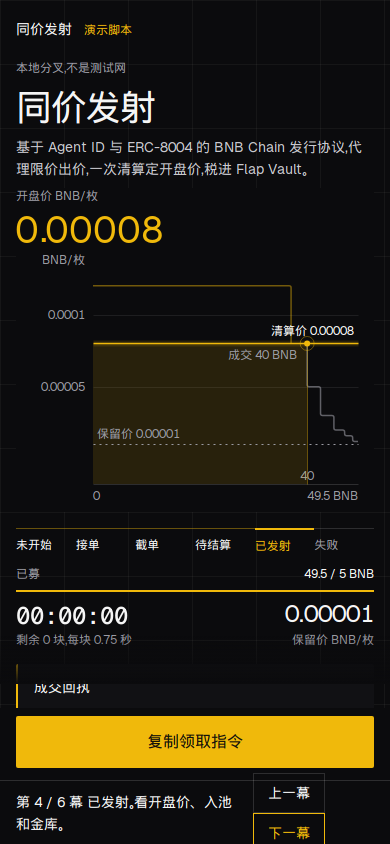
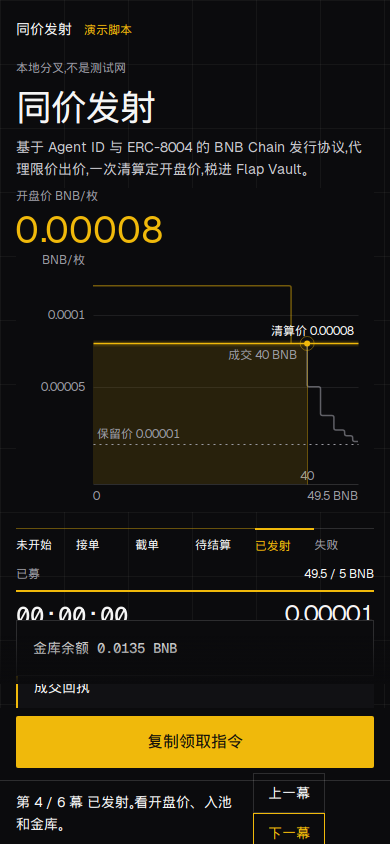
让手机上的回执停在按钮上方，不再盖住画面。

Changed region(s): [[0.0308, 0.7085, 0.3692, 0.8009], [0.7385, 0.7393, 0.9846, 0.7701], [0.4, 0.7393, 0.4615, 0.7701]]

diff --git a/web/src/App.tsx b/web/src/App.tsx
@@ -876,6 +876,9 @@ export function App() {
             </div>
           </div>
         )}
+        {demoOn && scene === 3 && vaultBal !== null && (
+          <pre className="slip">金库余额 {formatBnb(vaultBal)} BNB</pre>
+        )}
         {demoOn && scene === 2 && sim && (
           <pre className="slip">
             {`清算价 ${formatPrice(sim.clearingPrice)}\n成交 ${formatTokens(sim.fills.at(-1)?.tokens ?? 0n)} 枚\n实付 ${formatBnb(sim.fills.at(-1)?.spend ?? 0n)} BNB\n退回 ${formatBnb(sim.fills.at(-1)?.refund ?? 0n)} BNB\n入池 ${formatBnb(sim.poolQuote)} BNB`}

diff --git a/web/src/styles.css b/web/src/styles.css
@@ -598,6 +598,15 @@ svg.plot { display: block; touch-action: none; background: var(--bg); }
   text-align: left;
   white-space: pre-wrap;
 }
+@media (max-width: 900px) {
+  .slip {
+    top: auto;
+    right: 16px;
+    left: 16px;
+    bottom: 168px;
+    width: auto;
+  }
+}
 .script { max-width: 720px; padding: var(--space-7) var(--pad); }
 .script h1 { font-size: var(--fs-48); line-height: var(--lh-52); font-weight: 400; }
 .lede, .script li, .script h2 { font-size: var(--fs-14); line-height: var(--lh-22); color: var(--text-2); font-weight: 500; }

diff --git a/docs/work-log.md b/docs/work-log.md
@@ -33,3 +33,5 @@ Wed Nov 25 07:54:04 PM UTC 2026
 修正 README 里写错的身份编号，改成 3235774466。MCP 遇到坏行和通知不再断开，未知方法返回错误码。演示场命令口径有回归测试。
 Wed Nov 25 07:55:23 PM UTC 2026
 已发射回执加上金库余额。本机分叉的已发射池做了一笔买卖并分税，页面读到 0.0135 BNB。完整提走数额仍以端到端证据为准。
+Wed Nov 25 07:56:46 PM UTC 2026
+手机上的回执不再被拉成一整块。已发射幕在按钮上方另给一行金库余额，390 宽上沿 620、按钮上沿 716，不重叠。
